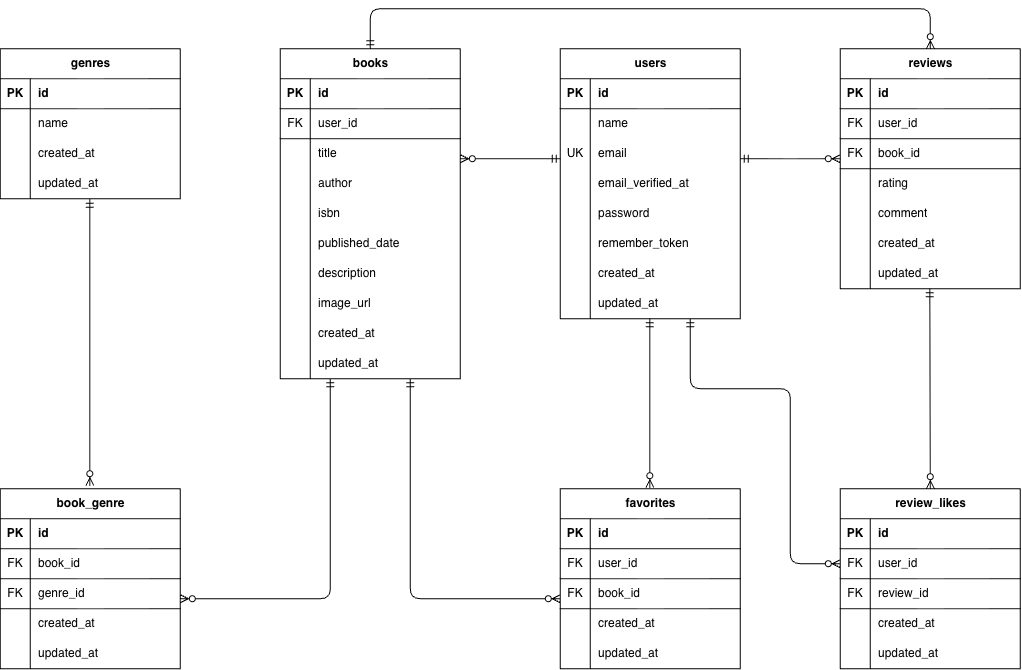
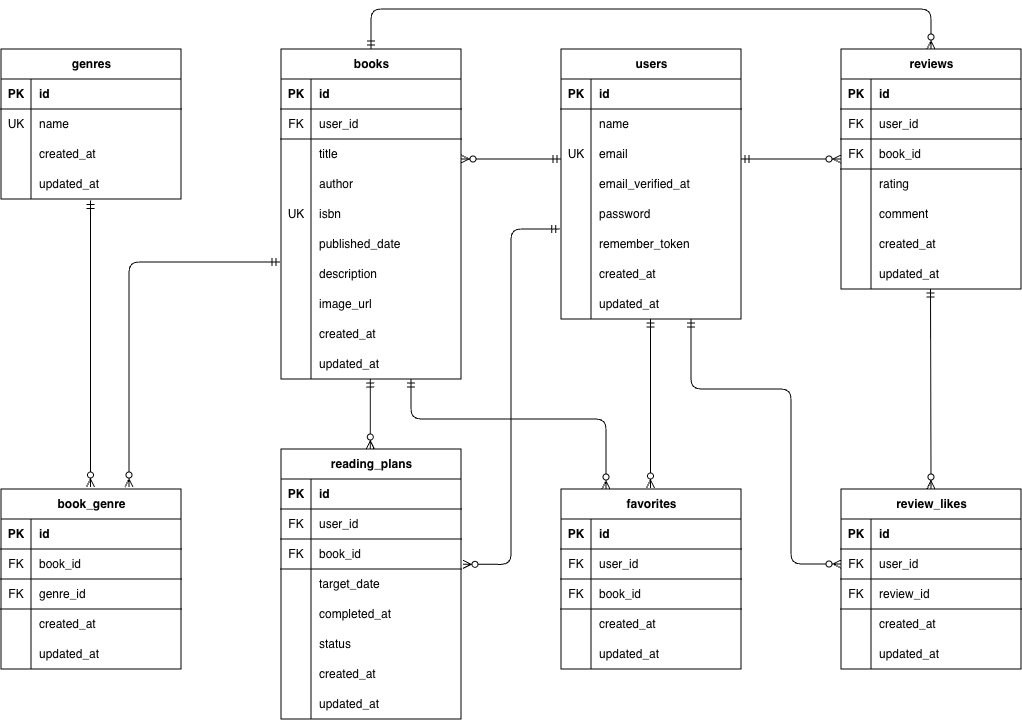
refactor: モデルのリレーションとER図を変更

diff --git a/app/Models/Book.php b/app/Models/Book.php
@@ -65,4 +65,14 @@ class Book extends Model
     {
         return $this->belongsToMany(Genre::class, 'book_genre');
     }
+
+    /**
+     * 本に関連する読書計画を取得する。
+     *
+     * @return HasMany<ReadingPlan> 本に関連する読書計画のリレーション
+     */
+    public function readingPlans(): HasMany
+    {
+        return $this->hasMany(ReadingPlan::class);
+    }
 }
